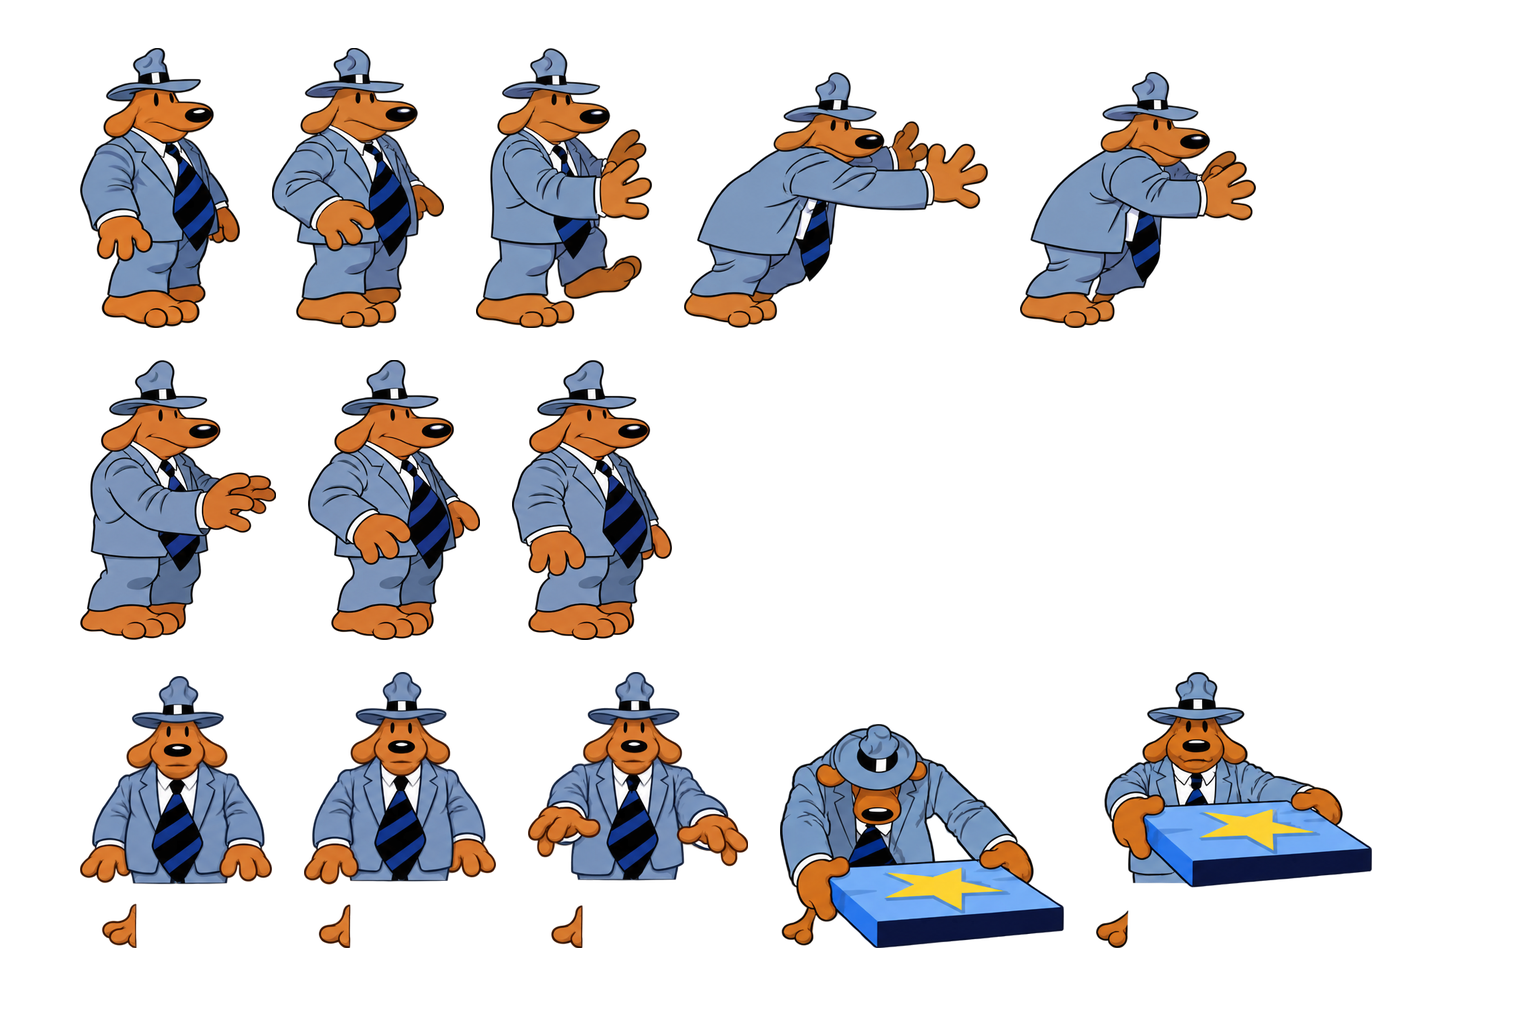
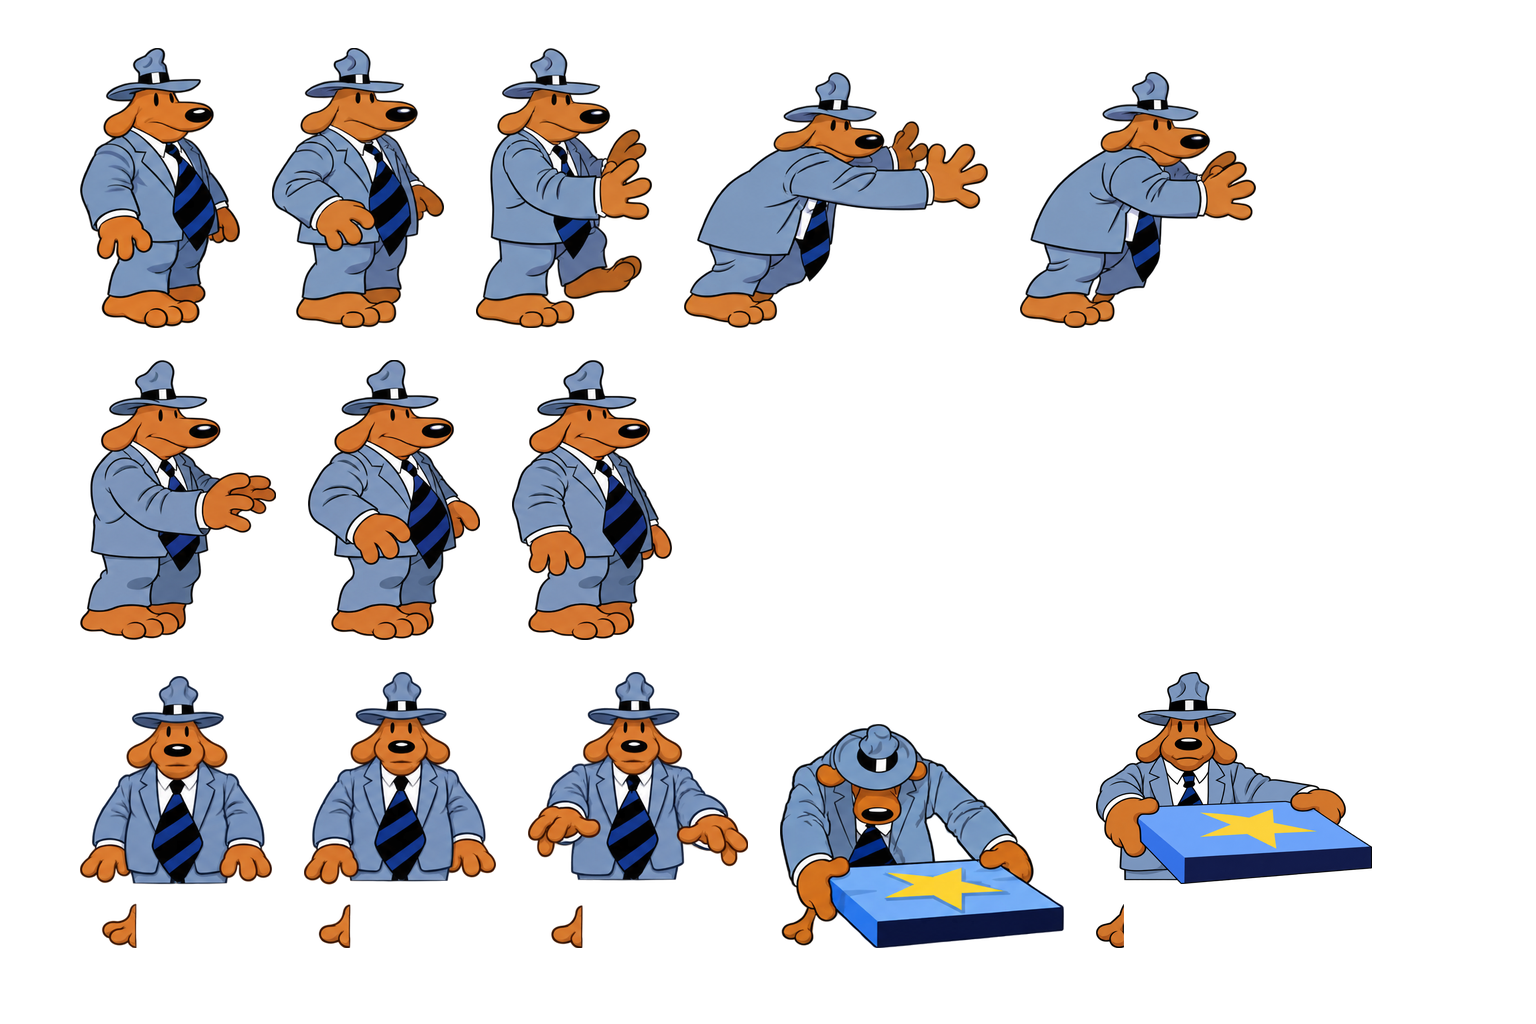
GPT: lever fig091_03 (natt 2026-10-15)

Changed region(s): [[0.7188, 0.6562, 0.9062, 0.9375]]

diff --git a/jobber/fig091_03/notat.md b/jobber/fig091_03/notat.md
@@ -1,9 +1,29 @@
-# Leveranse fig091_03
+# Returleveranse fig091_03
 
[1 lines of base64/hex data omitted]
+Dato: 15. oktober 2026. Gren: gpt-arbeid.
 
-Innebygd ChatGPT imagegen, ett råforsøk per midlertidig komponentgruppe. Eksakt modellnavn er ikke eksponert av verktøyet. Ordrette jobbprompter er bevart i gruppenes promptfiler, med separat kildepresisering. Sam-hovedark er identitets-/stilanker; originalene bestemmer positur, klær, farger, avkutting og lokkperspektiv. 35 unike nye motiver dekker familiens 49 ruter gjennom dokumentert kildeidentisk gjenbruk.
+Rettet costume091_1955 etter ORDRE.md. Hele arket leveres som RGBA på 1536 x 1024 med ekte alfa. De andre tolv rutene er bevart pikselidentisk. Returen har ingen egen retur.md; ordreteksten og forhandsvisning/myk_fig091_03.png er brukt.
 
-Ny alfa brukes til avgrensning. Alfa under 16 nulles, øvrig alfa skaleres fra 254 til 255, så hele nye komponenten skaleres til originalens 4×-boks med Lanczos. Ingen originalmaske eller lokal warp. Mapping, råbilder, rutekart og oppskrifter ligger i rapporter/bestilling059-20261013/b-*. Kildehash for jobbens fire beskyttede filer står i b-kildehash.json og er kontrollert uendret.
+## Kilde og motiv
 
-Alle cel-sammenligninger og rel-sekvenser er visuelt gjennomgått. Bevarte særtrekk er tom nedre kropp, brun separat fotrest, egne hender og benløft samt blått lokk med gul stjerne. HD har rundere føtter/fingre, renere jakkefolder og tydeligere ansiktsstreker enn kildepikslene. Små interne konturer er en HD-tolkning, ikke pikselidentisk reproduksjon. Ingen runtime-test eller ny individuell brukergodkjenning er påstått.
+Originalen er jobbens referanse.png og original_1x.png. Sam holder et blått lokk med en gul stjerne. Kroppen er avskåret, og en liten brun fotrest står separat nedenfor. Hoveddelens kildeboks på HD-lerretet er [1096,672,276,212], fotresten [1096,904,28,44]. Hele rutens høyde er 276 piksler med mellomrommet og fotresten. Hoveddelen skal derfor ikke strekkes til denne høyden.
+
+hovedark/sam.png er godkjent stilreferanse. Den styrer Sams identitet, dress, hatt og strek; originalen styrer positur, geometri, rekvisitt og avkutting. ANALYSE.md, GJENNOMGANG.md og remake-skillen fra lokal main er lest. Tidligere forklaring av måleforskjellen i rapporter/videre-grafikk-20261015/RAPPORT.md er beholdt som bakgrunn, men fritar ikke konturene for kontroll.
+
+## Verktøy og forsøk
+
+Innebygd image_gen, to bildeforsøk. Eksakt modellnavn vises ikke. prompt.txt ble brukt ordrett med separat returpresisering. Beskyttede jobbfiler er ikke endret. Faktiske prompter, råbilder og førbilde ligger i rapporter/natt-fig091_03-20261015/.
+
+Første forsøk endret hele arket og ble forkastet. Andre forsøk brukte et utsnitt av originalruten som bilde en, Sam-hovedarket som bilde to og den tidligere ruten som feilbeskrivelse i bilde tre. Den nye hoveddelen og den nye fotresten ble beskåret etter sin egen alfa og skalert hver for seg til originalens komponentbokser med Lanczos. Python/Pillow er bare brukt til denne plasseringen og alfaopprydding, ikke til å tegne motivet. Ingen originalmaske eller lokal deformering er brukt. Oppskriften er bevart i plassering.py.txt. Alfa under 16 er nullstilt, og resten normalisert fra 254 til 255 før plassering.
+
+## Kontroll
+
+Uendret verktoy/sjekk_leveranse.py gir OK, 13 av 13 ruter OK. Kjørt med eksisterende Python 3.12 fra Codex-runtime siden systemets python3 mangler numpy. Ingen global installasjon ble gjort.
+
+Rute1955s snitt delt på union mot originalkonturen på fast plass steg fra 0,857 til 0,928. Dette er en ekstra omrissmåling, ikke Toms visuelle godkjenning. Hovedfigur, hatt, grep, lokk og separat fotrest er sammenlignet visuelt med originalen. Resten av arket er pikselidentisk med førbildet. Rutekart for alle 13 ruter og SHA256 står i rapportens fremdrift.json.
+
+SHA256 for resultat.png: 322eca10b29b94409b0391e9ab86e4775c9cfeccd1fe8f11eb87f9c1ea2fc5ca.
+
+Usikkerhet: Små indre ansiktsstreker og fingre er fortsatt tegnetolkninger. Avspilling av hele animasjonen i motoren, importkontroll hos Claude og Toms visuelle vurdering er ikke utført her. Bare rute1955 er nytegnet i denne leveransen.
+
+Git pull ble forsøkt, men sandkassen nektet skriving til FETCH_HEAD utenfor arbeidsmappen. Ingen grenbytte, commit, push eller historikkendring er gjort.

diff --git a/rapporter/natt-fig091_03-20261015/forrige-notat.md b/rapporter/natt-fig091_03-20261015/forrige-notat.md
@@ -1,0 +1,9 @@
+# Leveranse fig091_03
+
[1 lines of base64/hex data omitted]
+
+Innebygd ChatGPT imagegen, ett råforsøk per midlertidig komponentgruppe. Eksakt modellnavn er ikke eksponert av verktøyet. Ordrette jobbprompter er bevart i gruppenes promptfiler, med separat kildepresisering. Sam-hovedark er identitets-/stilanker; originalene bestemmer positur, klær, farger, avkutting og lokkperspektiv. 35 unike nye motiver dekker familiens 49 ruter gjennom dokumentert kildeidentisk gjenbruk.
+
+Ny alfa brukes til avgrensning. Alfa under 16 nulles, øvrig alfa skaleres fra 254 til 255, så hele nye komponenten skaleres til originalens 4×-boks med Lanczos. Ingen originalmaske eller lokal warp. Mapping, råbilder, rutekart og oppskrifter ligger i rapporter/bestilling059-20261013/b-*. Kildehash for jobbens fire beskyttede filer står i b-kildehash.json og er kontrollert uendret.
+
+Alle cel-sammenligninger og rel-sekvenser er visuelt gjennomgått. Bevarte særtrekk er tom nedre kropp, brun separat fotrest, egne hender og benløft samt blått lokk med gul stjerne. HD har rundere føtter/fingre, renere jakkefolder og tydeligere ansiktsstreker enn kildepikslene. Små interne konturer er en HD-tolkning, ikke pikselidentisk reproduksjon. Ingen runtime-test eller ny individuell brukergodkjenning er påstått.
